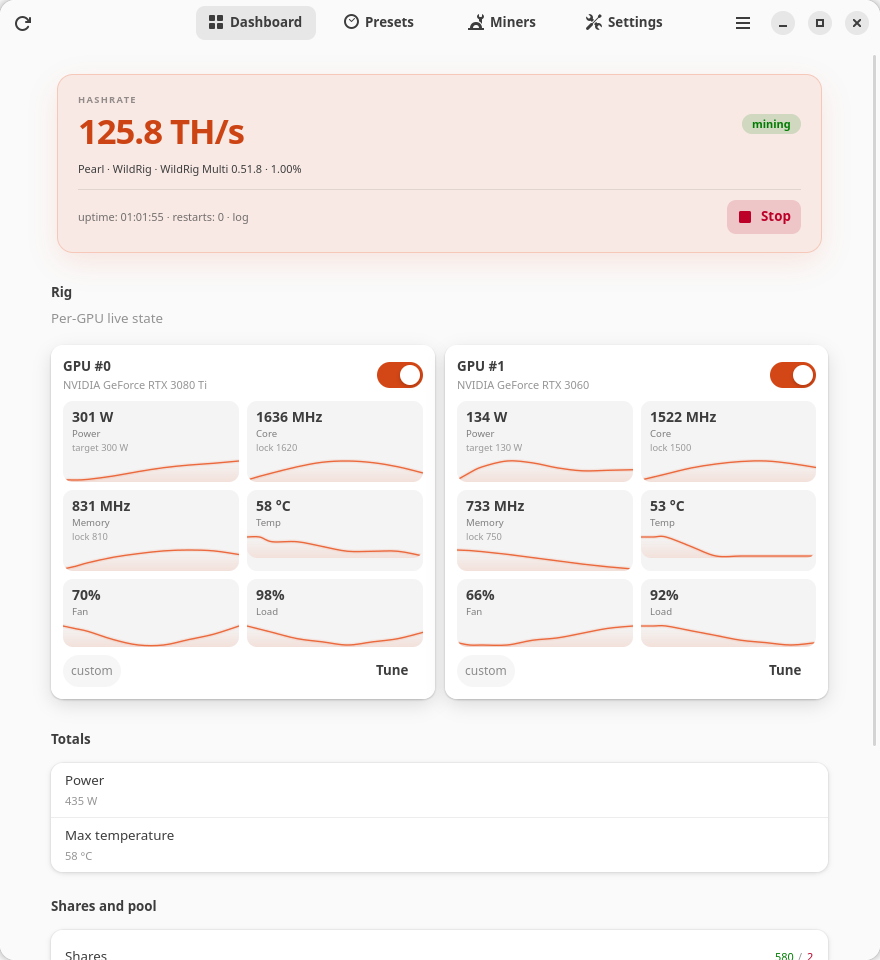
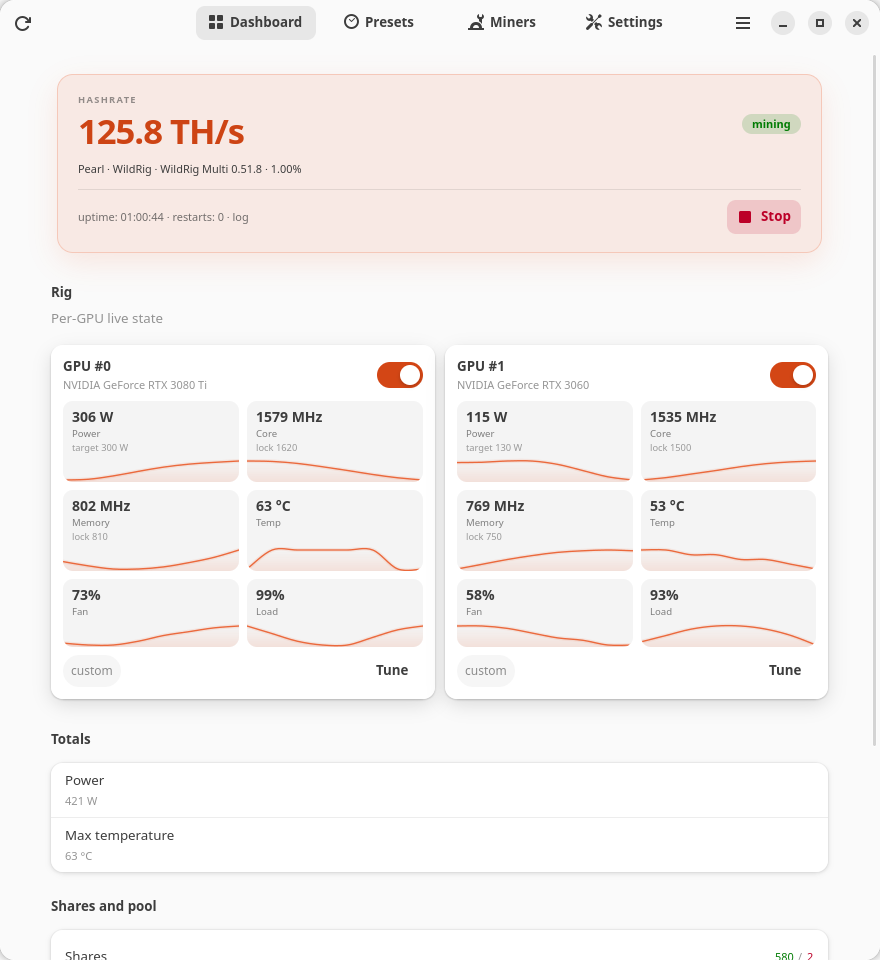
fix(ui): ground every card chart and tidy the miner install dialog
The temperature chart stopped a line short of the bubble floor: a grid row
takes its height from the tallest tile, and the spare row height went to the
chart holder, which positioned its 24 px area at the top of that space. Give
the leftover height to the tile's text block instead, so every chart keeps one
height and ends on the floor.

The install dialog had grown past its own footer in a 760 px window. Split it
into Version and Installation groups, move the URL, checksum, archive and
binary fields into a Download source expander whose subtitle shows the URL, and
shorten the primary action to Install. The footer now fits a 400 px window and
the dialog no longer scrolls to reach it.

Screenshots can be regenerated selectively with ONLY=substring.

diff --git a/crates/cli/src/gui.rs b/crates/cli/src/gui.rs
@@ -3765,18 +3765,21 @@ fn miner_install_dialog(
 
     let page = adw::PreferencesPage::new();
 
+    // Two groups: what to install, then how. The download fields sit in an
+    // expander because a catalogue version fills them anyway, and the dialog
+    // has to fit a 760 px window without scrolling away its own footer.
     let version_group = adw::PreferencesGroup::builder()
         .title(tr("Version", "Версия"))
         .description(tr(
-            "Miners are updated often. Pick a catalogue version, or type the version name of a build you downloaded upstream.",
-            "Майнеры часто обновляются. Выберите версию из каталога или введите название версии сборки, скачанной самостоятельно.",
+            "Pick a catalogue build, or type the name of a build you downloaded upstream.",
+            "Выберите сборку из каталога или введите название скачанной вручную.",
         ))
         .build();
     let version_combo = adw::ComboRow::builder()
         .title(tr("Catalogue version", "Версия из каталога"))
         .subtitle(tr(
-            "Fills the URL and checksum",
-            "Подставляет ссылку и контрольную сумму",
+            "Fills the URL and SHA-256",
+            "Подставляет ссылку и SHA-256",
         ))
         .model(&string_list(
             &choices
@@ -3795,30 +3798,38 @@ fn miner_install_dialog(
         .title(tr("Version name", "Название версии"))
         .text(&version)
         .build();
-    let state_row = adw::ActionRow::builder()
+    version_group.add(&version_combo);
+    version_group.add(&version_entry);
+    page.add(&version_group);
+
+    let install_group = adw::PreferencesGroup::builder()
         .title(tr("Installation", "Установка"))
+        .description(tr(
+            "One install serves every preset. HTTPS only; a SHA-256 is checked when the catalogue lists one.",
+            "Одна установка служит всем пресетам. Только HTTPS; SHA-256 сверяется, если он указан в каталоге.",
+        ))
+        .build();
+    let state_row = adw::ActionRow::builder()
+        .title(tr("State", "Состояние"))
         .build();
     let state_label = label("", &["caption"]);
     state_row.add_suffix(&state_label);
-    version_group.add(&version_combo);
-    version_group.add(&version_entry);
-    version_group.add(&state_row);
+    install_group.add(&state_row);
     // Importing a local binary is the second source for the same install. As a
-    // row next to the installation state it stays readable at any window width;
-    // as a third footer button it pushed the primary action past the dialog
-    // edge on narrow windows.
+    // row it stays readable at any window width; as a footer button it pushed
+    // the primary action past the dialog edge on narrow windows.
     let import = adw::ActionRow::builder()
         .title(tr("Import binary", "Импортировать бинарник"))
         .subtitle(tr(
-            "Install a binary you already have on disk",
-            "Установить бинарник, который уже есть на диске",
+            "Install a binary from disk",
+            "Установить бинарник с диска",
         ))
         .activatable(true)
         .build();
     let import_icon = gtk::Image::from_icon_name("document-open-symbolic");
     import_icon.add_css_class("dim-label");
     import.add_suffix(&import_icon);
-    version_group.add(&import);
+    install_group.add(&import);
     // The upstream link belongs to the version it documents, not to the window
     // chrome: an activatable row beats a stray icon in the header.
     if !def.source_url.is_empty() {
@@ -3836,17 +3847,8 @@ fn miner_install_dialog(
             let _ =
                 gio::AppInfo::launch_default_for_uri(&source_url, None::<&gio::AppLaunchContext>);
         });
-        version_group.add(&release);
+        install_group.add(&release);
     }
-    page.add(&version_group);
-
-    let source_group = adw::PreferencesGroup::builder()
-        .title(tr("Download", "Загрузка"))
-        .description(tr(
-            "HTTPS only. A SHA-256 is checked when provided; archives are extracted without path escapes.",
-            "Только HTTPS. SHA-256 проверяется, если указан; архивы распаковываются без выхода за каталог.",
-        ))
-        .build();
     let url_entry = adw::EntryRow::builder()
         .title("URL")
         .text(
@@ -3863,10 +3865,13 @@ fn miner_install_dialog(
                 .unwrap_or_default(),
         )
         .build();
+    // The expander subtitle carries the URL, so tucking the fields away hides
+    // nothing the user needs before pressing the primary action.
     let details = adw::ExpanderRow::builder()
-        .title(tr("Archive details", "Параметры архива"))
-        .subtitle(tr("binary, tar.gz or zip", "binary, tar.gz или zip"))
+        .title(tr("Download source", "Источник загрузки"))
+        .subtitle(tr("URL, checksum and archive", "URL, сумма и архив"))
         .build();
+    details.set_subtitle_lines(1);
     let archive_entry = adw::EntryRow::builder()
         .title(tr("Archive", "Архив"))
         .text(
@@ -3883,12 +3888,28 @@ fn miner_install_dialog(
                 .unwrap_or_else(|| "wildrig-multi".into()),
         )
         .build();
+    details.add_row(&url_entry);
+    details.add_row(&sha_entry);
     details.add_row(&archive_entry);
     details.add_row(&binary_entry);
-    source_group.add(&url_entry);
-    source_group.add(&sha_entry);
-    source_group.add(&details);
-    page.add(&source_group);
+    install_group.add(&details);
+    page.add(&install_group);
+    {
+        let details = details.clone();
+        let url_row = url_entry.clone();
+        let refresh = move || {
+            let url = url_row.text();
+            let url = url.trim();
+            if url.is_empty() {
+                details.set_subtitle(&tr("URL, checksum and archive", "URL, сумма и архив"));
+            } else {
+                details.set_subtitle(url);
+            }
+        };
+        refresh();
+        let refresh = Rc::new(refresh);
+        url_entry.connect_notify_local(Some("text"), move |_, _| refresh());
+    }
 
     let footer = dialog_footer();
     let status = label("", &["caption", "dim-label"]);
@@ -3897,8 +3918,10 @@ fn miner_install_dialog(
     // Long download/import messages must not widen the footer: ellipsize them
     // and keep the full text in the tooltip (set_status_text does that).
     status.set_ellipsize(gtk::pango::EllipsizeMode::End);
+    // A short label keeps the footer on one line down to the smallest window;
+    // the dialog title already says the action installs a miner.
     let download = gtk::Button::builder()
-        .label(tr("Download and install", "Скачать и установить"))
+        .label(tr("Install", "Установить"))
         .css_classes(["suggested-action", "pill"])
         .build();
     footer.append(&cancel);
@@ -3929,10 +3952,10 @@ fn miner_install_dialog(
                     state_label.set_css_classes(&["caption", "success"]);
                 }
                 None => {
-                    state_row.set_subtitle(&tr(
-                        "Not installed; one installation is shared by every preset.",
-                        "Не установлен; одна установка доступна всем пресетам.",
-                    ));
+                    // The group description already explains that one install
+                    // serves every preset; repeating it here just made the row
+                    // taller than its neighbours.
+                    state_row.set_subtitle("");
                     state_label.set_text(&tr("not installed", "не установлен"));
                     state_label.set_css_classes(&["caption", "warning"]);
                 }
@@ -4173,7 +4196,7 @@ fn miner_install_dialog(
                 Ok(Err(error)) => {
                     set_status_text(&status, &error, "error");
                     button.set_sensitive(true);
-                    button.set_label(&tr("Download and install", "Скачать и установить"));
+                    button.set_label(&tr("Install", "Установить"));
                     glib::ControlFlow::Break
                 }
                 Err(std::sync::mpsc::TryRecvError::Empty) => glib::ControlFlow::Continue,
@@ -4837,12 +4860,16 @@ fn gpu_stat(
         hint_label.set_tooltip_text(Some(hint));
         body.append(&hint_label);
     }
+    // A grid row is as tall as its tallest tile, and a row-mate that carries a
+    // hint line is taller than a tile without one. Give the leftover height to
+    // the text body, not to the holder: the holder then keeps its natural
+    // height and every graph in the row keeps the same height and still ends on
+    // the tile floor. Letting the holder expand instead left the chart pinned
+    // to the top of the extra space.
+    body.set_vexpand(true);
     box_.append(&body);
     if let Some(spark) = spark {
-        // The holder absorbs the leftover height of the grid row, so every
-        // graph sits on the bottom edge even when a tile has no hint line.
         let holder = gtk::Box::new(gtk::Orientation::Vertical, 0);
-        holder.set_vexpand(true);
         holder.set_margin_top(4);
         holder.append(&spark);
         box_.append(&holder);

diff --git a/scripts/ui_smoke.py b/scripts/ui_smoke.py
@@ -539,12 +539,20 @@ def phase_install(ui: UI) -> None:
         return
     # Let the modal window finish mapping before clicking its footer button.
     time.sleep(1.0)
-    for name in ("Cancel", "Download and install"):
+    for name in ("Cancel", "Install"):
         ui.check(ui.find(frame, "button", name) is not None, f"install button {name}")
-    # Import is a row in the Download group; it is not a push button anymore.
+    # Import is a row in the installation group; it is not a push button.
     ui.check(ui.find(frame, None, "Import binary") is not None, "install import row")
-    for name in ("Version name", "URL", "SHA-256"):
-        ui.check(ui.find(frame, "text", name) is not None, f"install field {name}")
+    ui.check(ui.find(frame, "text", "Version name") is not None, "install version field")
+    # The URL and checksum live in a collapsed expander: open it, then look for
+    # the fields inside.
+    source = ui.find(frame, None, "Download source")
+    ui.check(source is not None, "install download source row")
+    if source is not None:
+        ui.click(source, "download source")
+        time.sleep(0.7)
+        for name in ("URL", "SHA-256"):
+            ui.check(ui.find(frame, "text", name) is not None, f"install field {name}")
     ui.click_button("Cancel", frame, "install Cancel")
     closed = ui.wait(lambda: ui.frame_visible("Install miner") is None, 5.0, "closed")
     if closed is not None:

diff --git a/docs/design.ru.md b/docs/design.ru.md
@@ -253,18 +253,25 @@ libadwaita пропустить свой stylesheet и ломает отступ
 
 ### Установка майнера (модальный, единственный)
 
-Отвечает за всю установку для страницы «Майнеры», редактора пресета и мастера:
+Отвечает за всю установку для страницы «Майнеры», редактора пресета и мастера.
+Две группы по порядку:
 
-- список версий из каталога **плюс** уже установленные свои сборки;
-- редактируемое имя версии — можно поставить сборку новее каталога;
-- HTTPS-URL, опциональный SHA-256, тип архива (`tar.gz`, `zip`, raw) и имя
-  бинарника;
-- строка **Импортировать бинарник** для локального исполняемого файла (в
-  нижней панели остаются только **Отмена** и главное действие, поэтому панель
-  помещается и в окно 400 px);
-- строка **Страница релиза** в группе версии, пояснение про HTTPS/SHA-256 и
-  сообщение об ошибке или успехе; отдельного бейджа «проверено» в диалоге нет;
-- ошибки остаются в диалоге; успех даёт тост и обновляет вызывающий экран.
+1. **Версия** — список версий из каталога **плюс** уже установленные свои
+   сборки и редактируемое имя версии: можно поставить сборку новее каталога.
+2. **Установка** — строка состояния (путь установки или «не установлен»),
+   **Импортировать бинарник** для локального исполняемого файла, **Страница
+   релиза**, если каталог знает домашнюю страницу, и раскрывающаяся строка
+   **Источник загрузки** с HTTPS-URL, опциональным SHA-256, типом архива
+   (`tar.gz`, `zip`, raw) и именем бинарника. Строка свёрнута, потому что
+   версия из каталога заполняет эти поля сама; её подзаголовок показывает URL,
+   так что до нажатия главной кнопки ничего не спрятано.
+
+Пояснение про HTTPS/SHA-256 стоит в описании группы; ошибки — в строке
+состояния нижней панели, успех даёт тост и обновляет вызывающий экран.
+Отдельного бейджа «проверено» в диалоге нет. В нижней панели остаются только
+**Отмена**, строка состояния и **Установить** — она помещается и в окно
+400 px; короткая подпись и свёрнутые поля источника держат диалог внутри окна
+760 px, и до его же нижней панели не нужно прокручивать.
 
 Каталог — удобство, а не шлагбаум. Второй UI установки добавлять нельзя.
 

diff --git a/docs/design.md b/docs/design.md
@@ -250,19 +250,25 @@ Every coloured value has a word next to it (“installed”, “not installed”
 ### Miner install (modal, single source)
 
 Owns the whole install flow for the Miners page, the preset editor and the
-wizard:
+wizard. Two groups, in order:
 
-- version list from the catalogue **plus** already-installed custom builds;
-- editable version name, so a newer upstream build can be installed before the
-  catalogue knows it;
-- HTTPS URL, optional SHA-256, archive kind (`tar.gz`, `zip`, raw) and binary
-  name;
-- **Import binary** row for a local executable (the footer keeps only
-  **Cancel** and the primary action, so it also fits a 400 px window);
-- a **Release page** row in the version group, the HTTPS-only/SHA-256 note and
-  the error or success message; there is no separate “verified” badge in the
-  dialog;
-- errors stay in the dialog; success toasts and refreshes the caller.
+1. **Version** — version list from the catalogue **plus** already-installed
+   custom builds, and an editable version name, so a newer upstream build can
+   be installed before the catalogue knows it.
+2. **Installation** — the state row (installed path, or “not installed”),
+   **Import binary** for a local executable, **Release page** when the
+   catalogue lists a homepage, and a **Download source** expander holding the
+   HTTPS URL, optional SHA-256, archive kind (`tar.gz`, `zip`, raw) and binary
+   name. The expander is collapsed because a catalogue version fills those
+   fields; its subtitle shows the URL, so nothing is hidden before the primary
+   action.
+
+The group description carries the HTTPS-only/SHA-256 note; errors appear in
+the footer status and success toasts and refreshes the caller. There is no
+separate “verified” badge in the dialog. The footer keeps only **Cancel**, the
+status line and **Install**, which fits a 400 px window; the short label and the
+collapsed source rows keep the dialog inside a 760 px window without scrolling
+to its own footer.
 
 The catalogue is a convenience, not a gate. Never add a second install UI.
 

diff --git a/CHANGELOG.md b/CHANGELOG.md
@@ -24,10 +24,18 @@ Changelog; versions use SemVer.
 - **Default window narrowed to 880 × 760.** The one-line view switcher holds in
   Russian down to about 850 px, so the window opens a hundred pixels narrower
   without falling back to the stacked labels or the bottom bar.
-- **Miner install: import moved into the version group.** “Import binary” is a
-  row next to the installation state instead of a third footer button, so a
-  narrow dialog keeps **Cancel**, the status line and the primary action inside
-  its edge; long status messages ellipsize and keep the full text in a tooltip.
+- **Miner install: two groups and a shorter primary action.** Version and
+  installation are separate groups; **Import binary** is a row instead of a
+  third footer button, and the URL, checksum, archive and binary fields sit in a
+  **Download source** expander whose subtitle shows the URL. The footer keeps
+  **Cancel**, the status line and a plain **Install** button, so it fits a
+  400 px window; long status messages ellipsize and keep the full text in a
+  tooltip. The dialog no longer needs to scroll to reach its own footer.
+- **GPU card charts share one floor.** A grid row gives its leftover height to
+  the tile's text block instead of the chart holder, so a chart stays 24 px tall
+  and ends on the bubble floor even when a neighbour in the same row carries a
+  hint line. The temperature chart was the visible case: it stopped a line
+  short of the bottom edge.
 - **Sparklines reach the bubble edges.** The wash is over-drawn to the last
   pixel and the plot keeps only a 2 px bottom margin, so the graph sits on the
   bubble floor instead of floating above it or being clipped before the right

diff --git a/docs/user-guide.ru.md b/docs/user-guide.ru.md
@@ -104,7 +104,9 @@ English: [user-guide.md](user-guide.md).
 ![Установка майнера](images/miner-install-en-dark.png)
 
 - выбрать версию из каталога или ввести своё имя версии;
-- скачать по HTTPS-URL (опциональный SHA-256; `tar.gz`, `zip` или сырой бинарник);
+- нажать **Установить**, чтобы скачать её по HTTPS (в строке **Источник
+  загрузки** можно поменять URL, добавить SHA-256 или выбрать `tar.gz`, `zip`
+  или сырой бинарник);
 - или импортировать локальный исполняемый файл.
 
 Импортированные сборки копируются в управляемое хранилище Trommel, поэтому

diff --git a/docs/user-guide.md b/docs/user-guide.md
@@ -106,7 +106,8 @@ the Miners page, the preset editor and the wizard:
 ![Miner installation](images/miner-install-en-dark.png)
 
 - pick a catalogue version or type your own version name;
-- download from an HTTPS URL (optional SHA-256; `tar.gz`, `zip` or a raw binary);
+- press **Install** to download it over HTTPS (open **Download source** to
+  change the URL, add a SHA-256, or pick `tar.gz`, `zip` or a raw binary);
 - or import a local executable.
 
 Imported builds are copied into Trommel's managed store, so moving or deleting
